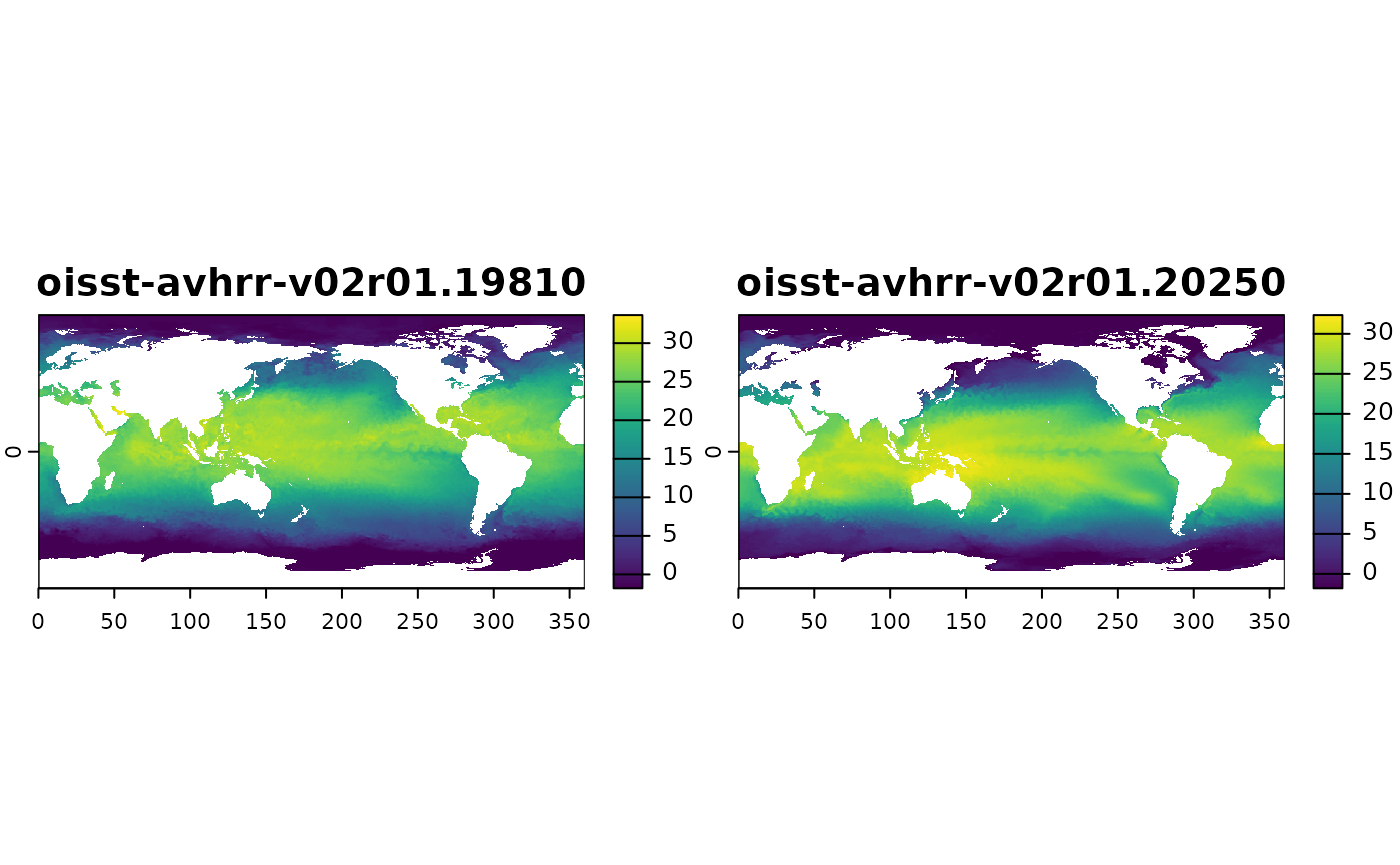
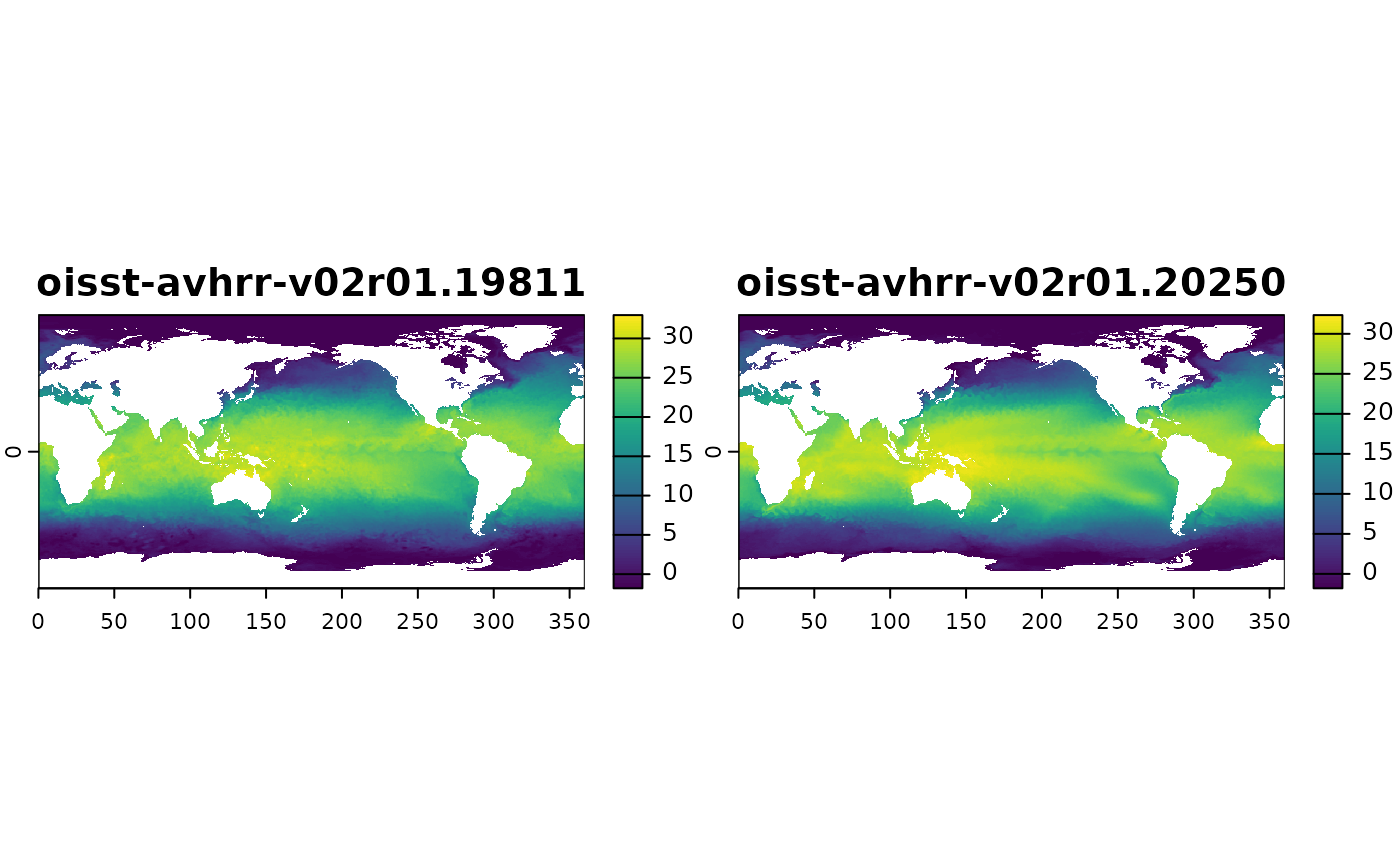
Deploying to gh-pages from @ mdsumner/sooty.watch@501e9f09278984d0c46638ced37482917cf369a6 🚀

Changed region(s): [[0.0307, 0.3746, 0.4914, 0.6243], [0.3993, 0.3121, 0.43, 0.3434]]

diff --git a/articles/sooty-watch.html b/articles/sooty-watch.html
@@ -88,7 +88,7 @@
 <span><span class="co">#&gt; <span style="color: #BCBCBC;">2</span> NSIDC_SEAICE_PS_S25km          1978-10-26 <span style="color: #949494;">00:00:00</span> 2025-01-19 <span style="color: #949494;">00:00:00</span> <span style="text-decoration: underline;">16</span>882</span></span>
 <span><span class="co">#&gt; <span style="color: #BCBCBC;">3</span> antarctica-amsr2-asi-s3125-tif 2012-07-02 <span style="color: #949494;">00:00:00</span> 2025-01-19 <span style="color: #949494;">00:00:00</span>  <span style="text-decoration: underline;">4</span>574</span></span>
 <span><span class="co">#&gt; <span style="color: #BCBCBC;">4</span> oisst-avhrr-v02r01             1981-09-01 <span style="color: #949494;">00:00:00</span> 2025-01-19 <span style="color: #949494;">00:00:00</span> <span style="text-decoration: underline;">15</span>847</span></span>
-<span><span class="co">#&gt; <span style="color: #BCBCBC;">5</span> oisst-tif                      1981-09-01 <span style="color: #949494;">00:00:00</span> 2025-01-17 <span style="color: #949494;">00:00:00</span> <span style="text-decoration: underline;">15</span>845</span></span>
+<span><span class="co">#&gt; <span style="color: #BCBCBC;">5</span> oisst-tif                      1981-12-28 <span style="color: #949494;">00:00:00</span> 2025-01-17 <span style="color: #949494;">00:00:00</span> <span style="text-decoration: underline;">15</span>727</span></span>
 <span><span class="co">#&gt; <span style="color: #BCBCBC;">6</span> ghrsst-tif                     2002-06-01 <span style="color: #949494;">00:00:00</span> 2025-01-13 <span style="color: #949494;">00:00:00</span>  <span style="text-decoration: underline;">3</span>403</span></span>
 <span><span class="co">#&gt; <span style="color: #BCBCBC;">7</span> SEALEVEL_GLO_PHY_L4            1993-01-01 <span style="color: #949494;">00:00:00</span> 2024-11-25 <span style="color: #949494;">00:00:00</span> <span style="text-decoration: underline;">11</span>538</span></span>
 <span></span>
@@ -98,7 +98,7 @@
 <span><span class="co">#&gt;   <span style="color: #949494; font-style: italic;">&lt;chr&gt;</span>                                             <span style="color: #949494; font-style: italic;">&lt;int&gt;</span></span></span>
 <span><span class="co">#&gt; <span style="color: #BCBCBC;">1</span> idea-10.5067-mpyg15waa4wx                         <span style="text-decoration: underline;">33</span>764</span></span>
 <span><span class="co">#&gt; <span style="color: #BCBCBC;">2</span> idea-10.7289-v5sq8xb5                             <span style="text-decoration: underline;">15</span>847</span></span>
-<span><span class="co">#&gt; <span style="color: #BCBCBC;">3</span> idea-oisst                                        <span style="text-decoration: underline;">15</span>845</span></span>
+<span><span class="co">#&gt; <span style="color: #BCBCBC;">3</span> idea-oisst                                        <span style="text-decoration: underline;">15</span>727</span></span>
 <span><span class="co">#&gt; <span style="color: #BCBCBC;">4</span> idea-sealevel-glo-phy-l4-rep-observations-008-047 <span style="text-decoration: underline;">11</span>208</span></span>
 <span><span class="co">#&gt; <span style="color: #BCBCBC;">5</span> idea-amsr2-asi-s3125                               <span style="text-decoration: underline;">4</span>574</span></span>
 <span><span class="co">#&gt; <span style="color: #BCBCBC;">6</span> idea-ghrsst                                        <span style="text-decoration: underline;">3</span>403</span></span>

diff --git a/reference/watch.html b/reference/watch.html
@@ -76,7 +76,7 @@
 <span class="r-out co"><span class="r-pr">#&gt;</span> <span style="color: #BCBCBC;">2</span> NSIDC_SEAICE_PS_S25km          1978-10-26 <span style="color: #949494;">00:00:00</span> 2025-01-19 <span style="color: #949494;">00:00:00</span> <span style="text-decoration: underline;">16</span>882</span>
 <span class="r-out co"><span class="r-pr">#&gt;</span> <span style="color: #BCBCBC;">3</span> antarctica-amsr2-asi-s3125-tif 2012-07-02 <span style="color: #949494;">00:00:00</span> 2025-01-19 <span style="color: #949494;">00:00:00</span>  <span style="text-decoration: underline;">4</span>574</span>
 <span class="r-out co"><span class="r-pr">#&gt;</span> <span style="color: #BCBCBC;">4</span> oisst-avhrr-v02r01             1981-09-01 <span style="color: #949494;">00:00:00</span> 2025-01-19 <span style="color: #949494;">00:00:00</span> <span style="text-decoration: underline;">15</span>847</span>
-<span class="r-out co"><span class="r-pr">#&gt;</span> <span style="color: #BCBCBC;">5</span> oisst-tif                      1981-09-01 <span style="color: #949494;">00:00:00</span> 2025-01-17 <span style="color: #949494;">00:00:00</span> <span style="text-decoration: underline;">15</span>845</span>
+<span class="r-out co"><span class="r-pr">#&gt;</span> <span style="color: #BCBCBC;">5</span> oisst-tif                      1981-12-28 <span style="color: #949494;">00:00:00</span> 2025-01-17 <span style="color: #949494;">00:00:00</span> <span style="text-decoration: underline;">15</span>727</span>
 <span class="r-out co"><span class="r-pr">#&gt;</span> <span style="color: #BCBCBC;">6</span> ghrsst-tif                     2002-06-01 <span style="color: #949494;">00:00:00</span> 2025-01-13 <span style="color: #949494;">00:00:00</span>  <span style="text-decoration: underline;">3</span>403</span>
 <span class="r-out co"><span class="r-pr">#&gt;</span> <span style="color: #BCBCBC;">7</span> SEALEVEL_GLO_PHY_L4            1993-01-01 <span style="color: #949494;">00:00:00</span> 2024-11-25 <span style="color: #949494;">00:00:00</span> <span style="text-decoration: underline;">11</span>538</span>
 </code></pre></div>
